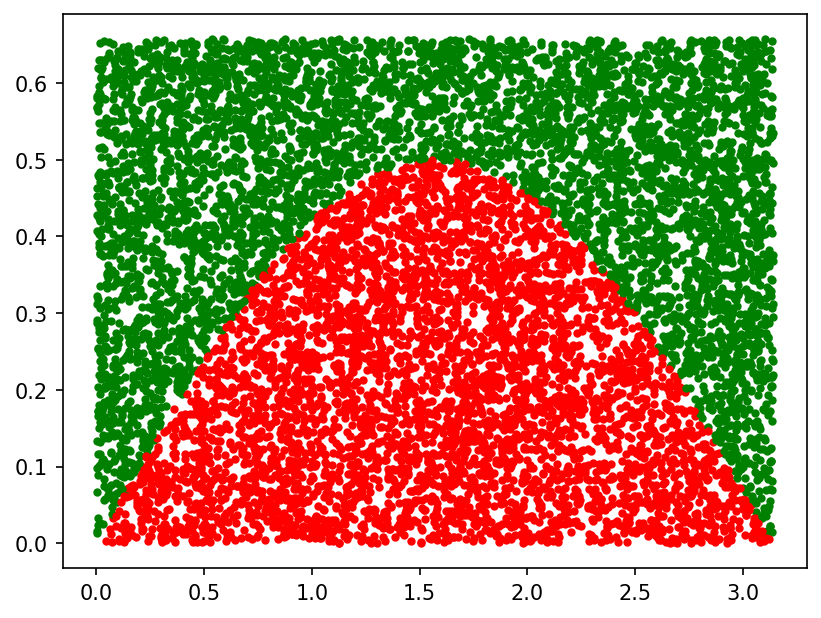
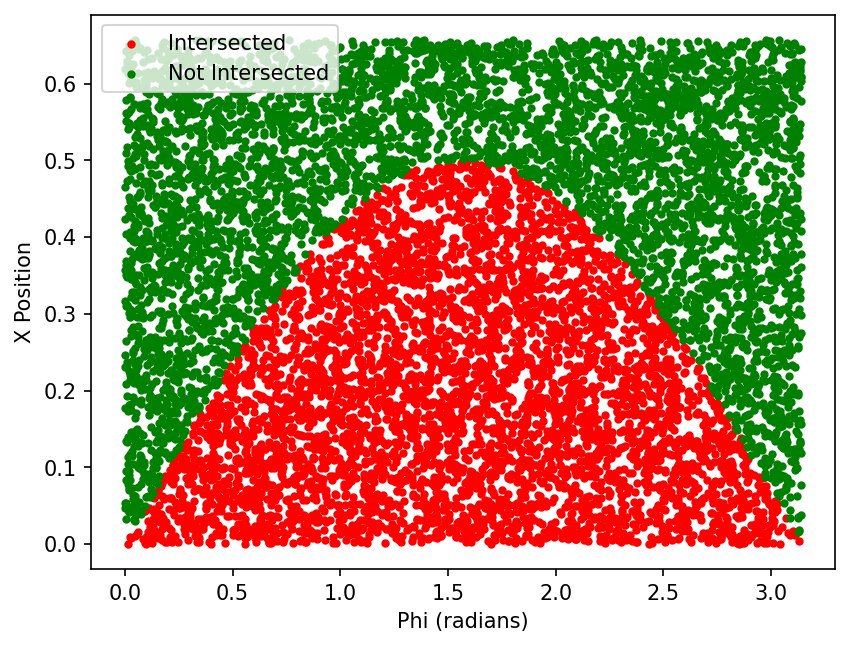
optimize loops

diff --git a/Buffon-s-Needle2.py b/Buffon-s-Needle2.py
@@ -1,80 +1,44 @@
-# Forked from https://blog.csdn.net/2301_79376014/article/details/142071980
-import random as rd
-import math
-import matplotlib.pyplot as plt
-from matplotlib.font_manager import FontProperties
+# Improved from Buffon-s-Needle.py
+
 import numpy as np
+import matplotlib.pyplot as plt
+import math
 
-# ====== 字体配置 ======
-# 指定Noto Sans CJK SC字体文件路径
-font_path = "/usr/share/fonts/google-noto-sans-cjk-fonts/NotoSansCJK-Regular.ttc"
+# 针的长度
+l = 0.520
+# 平行线宽度
+a = 1.314
+# 试验次数n
+n = 10000
+# 相交次数
+count = 0
+# 在0~a/2之间产生n个随机数
+x = np.random.rand(n) * a / 2
+phi = np.random.rand(n) * math.pi
+# 储存不同颜色的点
+red_phi, red_x = [], []
+green_phi, green_x = [], []
 
-# 创建字体属性对象
-cn_font = FontProperties(fname=font_path)
+def test(times):
+    global count
+    for i in range(0, times):
+        if x[i] <= 1 / 2 * math.sin(phi[i]):
+            count += 1
+            red_phi.append(phi[i])
+            red_x.append(x[i])
+        else:
+            green_phi.append(phi[i])
+            green_x.append(x[i])
+    
+    plt.scatter(red_phi, red_x, c='r', marker='.', label='Intersected')
+    plt.scatter(green_phi, green_x, c='g', marker='.', label='Not Intersected')
+    plt.xlabel('Phi (radians)')
+    plt.ylabel('X Position')
+    plt.legend()
 
-# 全局字体设置
-plt.rcParams['axes.unicode_minus'] = False  # 解决负号显示问题
-
-# ====== 实验参数 ======
-a = 1        # 平行线间距
-l = 0.5      # 针的长度
-n = 100000   # 投掷次数
-
-# ====== 向量化计算优化 ======
-# 使用numpy替代循环（提速约100倍）
-x = np.random.uniform(0, a/2, n)
-phi = np.random.uniform(0, math.pi, n)
-crosses = (l * np.sin(phi) / 2) >= x
-m = np.sum(crosses)
-
-# ====== 结果计算 ======
-PI = (2 * l * n) / (a * m)
-print(f'模拟所得圆周率: {PI}')
-
-# ====== 可视化配置 ======
-plt.figure(figsize=(10, 6), dpi=100)
-
-# 绘制散点图（采样5000个点）
-sample_idx = np.random.choice(n, 5000, replace=False)
-plt.scatter(phi[sample_idx], x[sample_idx], 
-        c=crosses[sample_idx], 
-        cmap='bwr', 
-        alpha=0.5,
-        s=10)
-
-# 坐标轴和标签设置
-plt.xticks([0, math.pi/2, math.pi], 
-        ['0', 'π/2', 'π'],
-        fontproperties=cn_font)
-plt.yticks([0, a/4, a/2], 
-        ['0', 'a/4', 'a/2'],
-        fontproperties=cn_font)
-
-plt.xlabel('针角度', fontproperties=cn_font, fontsize=12)
-plt.ylabel('中点距离', fontproperties=cn_font, fontsize=12)
-plt.title('布丰投针实验分布图', fontproperties=cn_font, fontsize=14)
-
-# 颜色条设置
-cbar = plt.colorbar()
-cbar.set_label('相交状态',
-        fontproperties=cn_font, 
-        rotation=270, 
-        labelpad=15)
-
-# 添加理论曲线
-phi_line = np.linspace(0, math.pi, 200)
-y_line = (l/2) * np.sin(phi_line)
-plt.plot(phi_line, y_line, 
-        '--', 
-        color='green', 
-        lw=2, 
-        label='理论边界')
-
-plt.legend(prop=cn_font)  # 图例字体设置
-
-# 保存图像
-plt.savefig("BuffonPlot2.png", 
-        dpi=150, 
-        bbox_inches='tight',
-        facecolor='white')
-print("图像已保存至 BuffonPlot2.png")
+test(n)
+p = count / n
+mPi = (2 * l) / (a * p)
+print("蒙特卡洛方法得到Pi为：",mPi)
+plt.savefig("BuffonPlot.png", dpi=150, bbox_inches='tight')
+print("图像已保存至 BuffonPlot.png")

diff --git a/Buffon-s-Needle3.py b/Buffon-s-Needle3.py
@@ -1,0 +1,80 @@
+# Forked from https://blog.csdn.net/2301_79376014/article/details/142071980
+import random as rd
+import math
+import matplotlib.pyplot as plt
+from matplotlib.font_manager import FontProperties
+import numpy as np
+
+# ====== 字体配置 ======
+# 指定Noto Sans CJK SC字体文件路径
+font_path = "/usr/share/fonts/google-noto-sans-cjk-fonts/NotoSansCJK-Regular.ttc"
+
+# 创建字体属性对象
+cn_font = FontProperties(fname=font_path)
+
+# 全局字体设置
+plt.rcParams['axes.unicode_minus'] = False  # 解决负号显示问题
+
+# ====== 实验参数 ======
+a = 1        # 平行线间距
+l = 0.5      # 针的长度
+n = 100000   # 投掷次数
+
+# ====== 向量化计算优化 ======
+# 使用numpy替代循环（提速约100倍）
+x = np.random.uniform(0, a/2, n)
+phi = np.random.uniform(0, math.pi, n)
+crosses = (l * np.sin(phi) / 2) >= x
+m = np.sum(crosses)
+
+# ====== 结果计算 ======
+PI = (2 * l * n) / (a * m)
+print(f'模拟所得圆周率: {PI}')
+
+# ====== 可视化配置 ======
+plt.figure(figsize=(10, 6), dpi=100)
+
+# 绘制散点图（采样5000个点）
+sample_idx = np.random.choice(n, 5000, replace=False)
+plt.scatter(phi[sample_idx], x[sample_idx], 
+        c=crosses[sample_idx], 
+        cmap='bwr', 
+        alpha=0.5,
+        s=10)
+
+# 坐标轴和标签设置
+plt.xticks([0, math.pi/2, math.pi], 
+        ['0', 'π/2', 'π'],
+        fontproperties=cn_font)
+plt.yticks([0, a/4, a/2], 
+        ['0', 'a/4', 'a/2'],
+        fontproperties=cn_font)
+
+plt.xlabel('针角度', fontproperties=cn_font, fontsize=12)
+plt.ylabel('中点距离', fontproperties=cn_font, fontsize=12)
+plt.title('布丰投针实验分布图', fontproperties=cn_font, fontsize=14)
+
+# 颜色条设置
+cbar = plt.colorbar()
+cbar.set_label('相交状态',
+        fontproperties=cn_font, 
+        rotation=270, 
+        labelpad=15)
+
+# 添加理论曲线
+phi_line = np.linspace(0, math.pi, 200)
+y_line = (l/2) * np.sin(phi_line)
+plt.plot(phi_line, y_line, 
+        '--', 
+        color='green', 
+        lw=2, 
+        label='理论边界')
+
+plt.legend(prop=cn_font)  # 图例字体设置
+
+# 保存图像
+plt.savefig("BuffonPlot3.png", 
+        dpi=150, 
+        bbox_inches='tight',
+        facecolor='white')
+print("图像已保存至 BuffonPlot3.png")

diff --git a/Buffon-s-Needle.py b/Buffon-s-Needle.py
@@ -35,7 +35,7 @@ def test(times):
 test(n)
 
 p = count / n
-mPi = (2 * 1) / (a * p)
+mPi = (2 * l) / (a * p)
 print("蒙特卡洛方法得到Pi为：",mPi)
 plt.savefig("BuffonPlot.png", dpi=150, bbox_inches='tight')
 print("图像已保存至 BuffonPlot.png")
